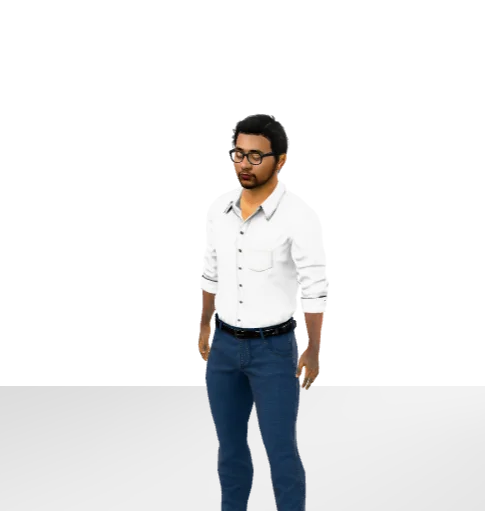
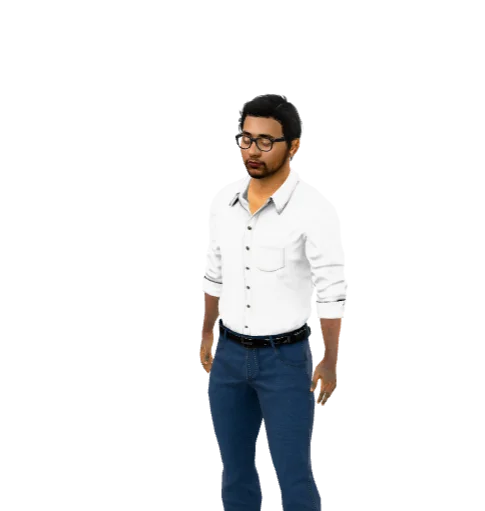
made it good for public use

diff --git a/src/App.jsx b/src/App.jsx
@@ -1,4 +1,4 @@
-import { lazy, Suspense, useState } from "react";
+import { lazy, Suspense, useState, Fragment } from "react";
 import {
   Mail,
   Phone,
@@ -12,13 +12,41 @@ import {
   User,
   Briefcase,
 } from "lucide-react";
-import { FaLinkedin, FaGithub } from "react-icons/fa";
+import { FaLinkedin, FaGithub, FaGooglePlay } from "react-icons/fa";
 
 const Hero = lazy(() => import("./Hero.jsx"));
 
 const base = import.meta.env.BASE_URL || "/";
 
 const portfolioProjects = [
+  {
+    title: "HomeCare Safety VR Simulator",
+    desc: "Unity VR simulator with Convai integration for interactive home safety hazard detection and AI training.",
+    video: base + "videos/HomeCare_Safety_VR.mp4",
+    poster: base + "images/HomeCare_VR.png",
+    tags: ["Unity", "VR", "AI", "Convai"],
+  },
+  {
+    title: "Multiplayer Helicopter Simulator (Unreal Engine 5)",
+    desc: "UE5 multiplayer VR helicopter simulator with server-authoritative flight controls and realistic physics.Also implemented player seaat assignment, detachment, and Ownership transfer mode from Pilot to COpilot using C++ and Blueprints.",
+    video: base + "videos/Helicopter_Simulator.mp4",
+    poster: base + "images/Helicopter.png",
+    tags: ["Unreal Engine 5", "C++", "Multiplayer"],
+  },
+  {
+    title: "Immersive Mecanno VR (FYP)",
+    desc: "Mobile + VR app for assembling and disassembling LEGO/Mecanno models with snapping mechanics.",
+    video: base + "videos/Immersive_Mecanno_VR.mp4",
+    poster: base + "images/Mecano_VR.png",
+    tags: ["Unity", "VR", "C#"],
+  },
+  {
+    title: "Endless Runner Game (Unreal Engine 5)",
+    desc: "UE5 endless runner with dynamic obstacle generation and power-ups.",
+    video: base + "videos/EndlessRunnerGame.mp4",
+    poster: base + "images/RunnerGame.png",
+    tags: ["Unreal Engine 5", "Game"],
+  },
   {
     title: "AR Media Platform",
     desc: "Dynamic image target recognition platform with cloud-backed recognition and OpenCV-based validation. Users can upload AR Image Targets at Runtime and the content to render on it (currently supports video.",
@@ -31,6 +59,28 @@ const portfolioProjects = [
     image: base + "images/Virtual Hajj Tour 3.jpg",
     tags: ["Unreal", "VR", "Multiplayer"],
   },
+
+  /*{
+    title: "Web AR Object Placement",
+    desc: "WebAR-based system for interactive 3D model placement using plane detection with WebXR.",
+    image: "https://images.unsplash.com/photo-1558002038-1055907df827?q=80&w=900&auto=format&fit=crop",
+    tags: ["WebAR", "AR Foundation", "WebXR"],
+  },*/
+  
+  {
+    title: "AR Measurement App",
+    desc: "AR app that uses plane detection and spatial mapping to measure real-world objects and distances with high accuracy.",
+    image: base + "images/AR_Measurement_App_1.png",
+    tags: ["AR", "Unity", "AR Foundation"],
+  },
+  /*{
+    title: "AR Portfolio Contact Card",
+    desc: "Scannable AR contact card overlaying 3D portfolio content for interactive networking.",
+    image: "https://images.unsplash.com/photo-1593508512255-86ab42a8e620?q=80&w=900&auto=format&fit=crop",
+    tags: ["AR", "Unity", "Vuforia"],
+  },*/
+  
+  
   {
     title: "Multiplayer Robot Simulation",
     desc: "Unity + Firebase(Realtime FB) system syncing movement inputs and stats with real-world robot players in real-time.",
@@ -38,69 +88,34 @@ const portfolioProjects = [
     tags: ["Unity", "Firebase", "Multiplayer"],
   },
   {
-    title: "Web AR Object Placement",
-    desc: "WebAR-based system for interactive 3D model placement using plane detection with WebXR.",
-    image: "https://images.unsplash.com/photo-1558002038-1055907df827?q=80&w=900&auto=format&fit=crop",
-    tags: ["WebAR", "AR Foundation", "WebXR"],
+    title: "AR Weather App",
+    desc: "Fetches weather via API and displays it in an interactive AR interface with 3D weather models.",
+    image: base + "images/AR_Weather.jfif",
+    tags: ["Unity", "AR", "API"],
   },
-  {
-    title: "AR Portfolio Contact Card",
-    desc: "Scannable AR contact card overlaying 3D portfolio content for interactive networking.",
-    image: "https://images.unsplash.com/photo-1593508512255-86ab42a8e620?q=80&w=900&auto=format&fit=crop",
-    tags: ["AR", "Unity", "Vuforia"],
-  },
-  {
-    title: "Immersive Mecanno VR (FYP)",
-    desc: "Mobile + VR app for assembling and disassembling LEGO/Mecanno models with snapping mechanics.",
-    video: base + "videos/Immersive_Mecanno_VR.mp4",
-    poster: base + "images/Mecano_VR.png",
-    tags: ["Unity", "VR", "C#"],
-  },
+  
   {
     title: "Color Connect – Line Puzzle",
+    link: "https://play.google.com/store/apps/details?id=com.XRDigital.DotConnect",
     desc: "Android puzzle game with 10k+ downloads, optimized load times by 20% with Unity Ads and Firebase Analytics.",
     image: base + "images/ColorCOnnect_1.png",
     tags: ["Unity", "Mobile", "Puzzle"],
   },
   {
-    title: "Multiplayer Helicopter Simulator (Unreal Engine 5)",
-    desc: "UE5 multiplayer VR helicopter simulator with server-authoritative flight controls and realistic physics.",
-    video: base + "videos/Helicopter_Simulator.mp4",
-    poster: base + "images/Helicopter.png",
-    tags: ["Unreal Engine 5", "VR", "Multiplayer"],
-  },
-  {
-    title: "HomeCare Safety VR Simulator",
-    desc: "Unity VR simulator with Convai integration for interactive home safety hazard detection and AI training.",
-    video: base + "videos/HomeCare_Safety_VR.mp4",
-    poster: base + "images/HomeCare_VR.png",
-    tags: ["Unity", "VR", "AI", "Convai"],
-  },
-  {
-    title: "Endless Runner Game (Unreal Engine 5)",
-    desc: "UE5 endless runner with dynamic obstacle generation and power-ups.",
-    video: base + "videos/EndlessRunnerGame.mp4",
-    poster: base + "images/RunnerGame.png",
-    tags: ["Unreal Engine 5", "Game"],
-  },
-  {
     title: "Ricochet Monster Mobile Game",
+    link: "https://play.google.com/store/apps/details?id=com.DefaultCompany.Monster2",
     desc: "Maintained live mobile games across Android/iOS with Unity Ads, AdMob, Firebase Analytics.",
     image: base + "images/RicochetMonster.png",
     tags: ["Unity", "Mobile", "Live Ops"],
   },
   {
     title: "Mob Rushers Mobile Game",
+    link: "https://play.google.com/store/apps/details?id=com.DefaultCompany.RunnerClash",
     desc: "Maintained live mobile games across Android/iOS with Unity Ads, AdMob, Firebase Analytics.",
     image: base + "images/MobRushers.png",
     tags: ["Unity", "Mobile", "Live Ops"],
   },
-  {
-    title: "AR Weather App",
-    desc: "Fetches weather via API and displays it in an interactive AR interface with 3D weather models.",
-    image: base + "images/AR_Weather.jfif",
-    tags: ["Unity", "AR", "API"],
-  },
+  
 ];
 
 const featuredProjects = [
@@ -142,9 +157,9 @@ export default function App() {
         <Hero />
       </Suspense>
       <WhoIAm />
+      <FeaturedProjects />
       <Portfolio />
       <Skills />
-      <FeaturedProjects />
       <Contact />
       <Footer />
     </main>
@@ -244,18 +259,32 @@ function Portfolio() {
       <p className="label">PORTFOLIO</p>
       <h2 className="sectionTitle">Portfolio <span>Projects</span></h2>
       <div className="projectGrid">
-        {portfolioProjects.map((project) => (
-          <article className="projectCard" key={project.title}>
-            {project.video ? (
-              <LazyVideo src={project.video} poster={project.poster} />
-            ) : (
-              <img src={project.image} alt={project.title} />
-            )}
-            <h3>{project.title}</h3>
-            <p>{project.desc}</p>
-            <div className="tags">{project.tags.map((tag) => <span key={tag}>{tag}</span>)}</div>
-          </article>
-        ))}
+        {portfolioProjects.map((project) => {
+          const card = (
+            <article className="projectCard">
+              {project.video ? (
+                <LazyVideo src={project.video} poster={project.poster} />
+              ) : (
+                <img src={project.image} alt={project.title} />
+              )}
+              <h3>{project.title}</h3>
+              <p>{project.desc}</p>
+              <div className="tags">{project.tags.map((tag) => <span key={tag}>{tag}</span>)}</div>
+              {project.link && (
+                <span className="storeBtn" onClick={(e) => { e.stopPropagation(); window.open(project.link, '_blank', 'noopener,noreferrer'); }}>
+                  <FaGooglePlay /> Play Store
+                </span>
+              )}
+            </article>
+          );
+          return project.link ? (
+            <a href={project.link} target="_blank" rel="noopener noreferrer" key={project.title} style={{ display: 'block', textDecoration: 'none', color: 'inherit' }}>
+              {card}
+            </a>
+          ) : (
+            <Fragment key={project.title}>{card}</Fragment>
+          );
+        })}
       </div>
     </section>
   );
@@ -398,10 +427,12 @@ nav a:hover { color: var(--cyan); }
 .projectCard video { width: 100%; border-radius: 12px; border: 1px solid var(--border); }
 .projectCard h3, .videoCard h3 { font-size: 22px; margin: 18px 0 8px; }
 .projectCard p, .videoCard p { color: var(--muted); line-height: 1.6; }
+.storeBtn { display: inline-flex; align-items: center; gap: 8px; margin-top: 16px; padding: 10px 18px; background: #1c1c1c; border: 1px solid rgba(255,255,255,.09); border-radius: 10px; color: var(--cyan); font-size: 14px; cursor: pointer; transition: .3s; text-decoration: none; }
+.storeBtn:hover { background: rgba(0,255,240,.12); border-color: var(--cyan); }
 .featured { background: radial-gradient(circle at center, rgba(0,255,240,.06), transparent 45%), #050505; }
 .videoGrid { grid-template-columns: repeat(3, minmax(0, 1fr)); }
 .videoBox { position: relative; border-radius: 14px; overflow: hidden; border: 1px solid rgba(255,255,255,.08); }
-.videoBox video { width: 100%; height: 210px; object-fit: cover; display: block; }
+.videoBox video, .videoBox img { width: 100%; height: 210px; object-fit: cover; display: block; }
 .videoBox .videoPlaceholder { width: 100%; height: 210px; }
 .videoPlaceholder { position: relative; cursor: pointer; display: flex; align-items: center; justify-content: center; overflow: hidden; }
 .videoThumb { width: 100%; height: 100%; object-fit: cover; display: block; filter: brightness(.7); transition: filter .3s; }
